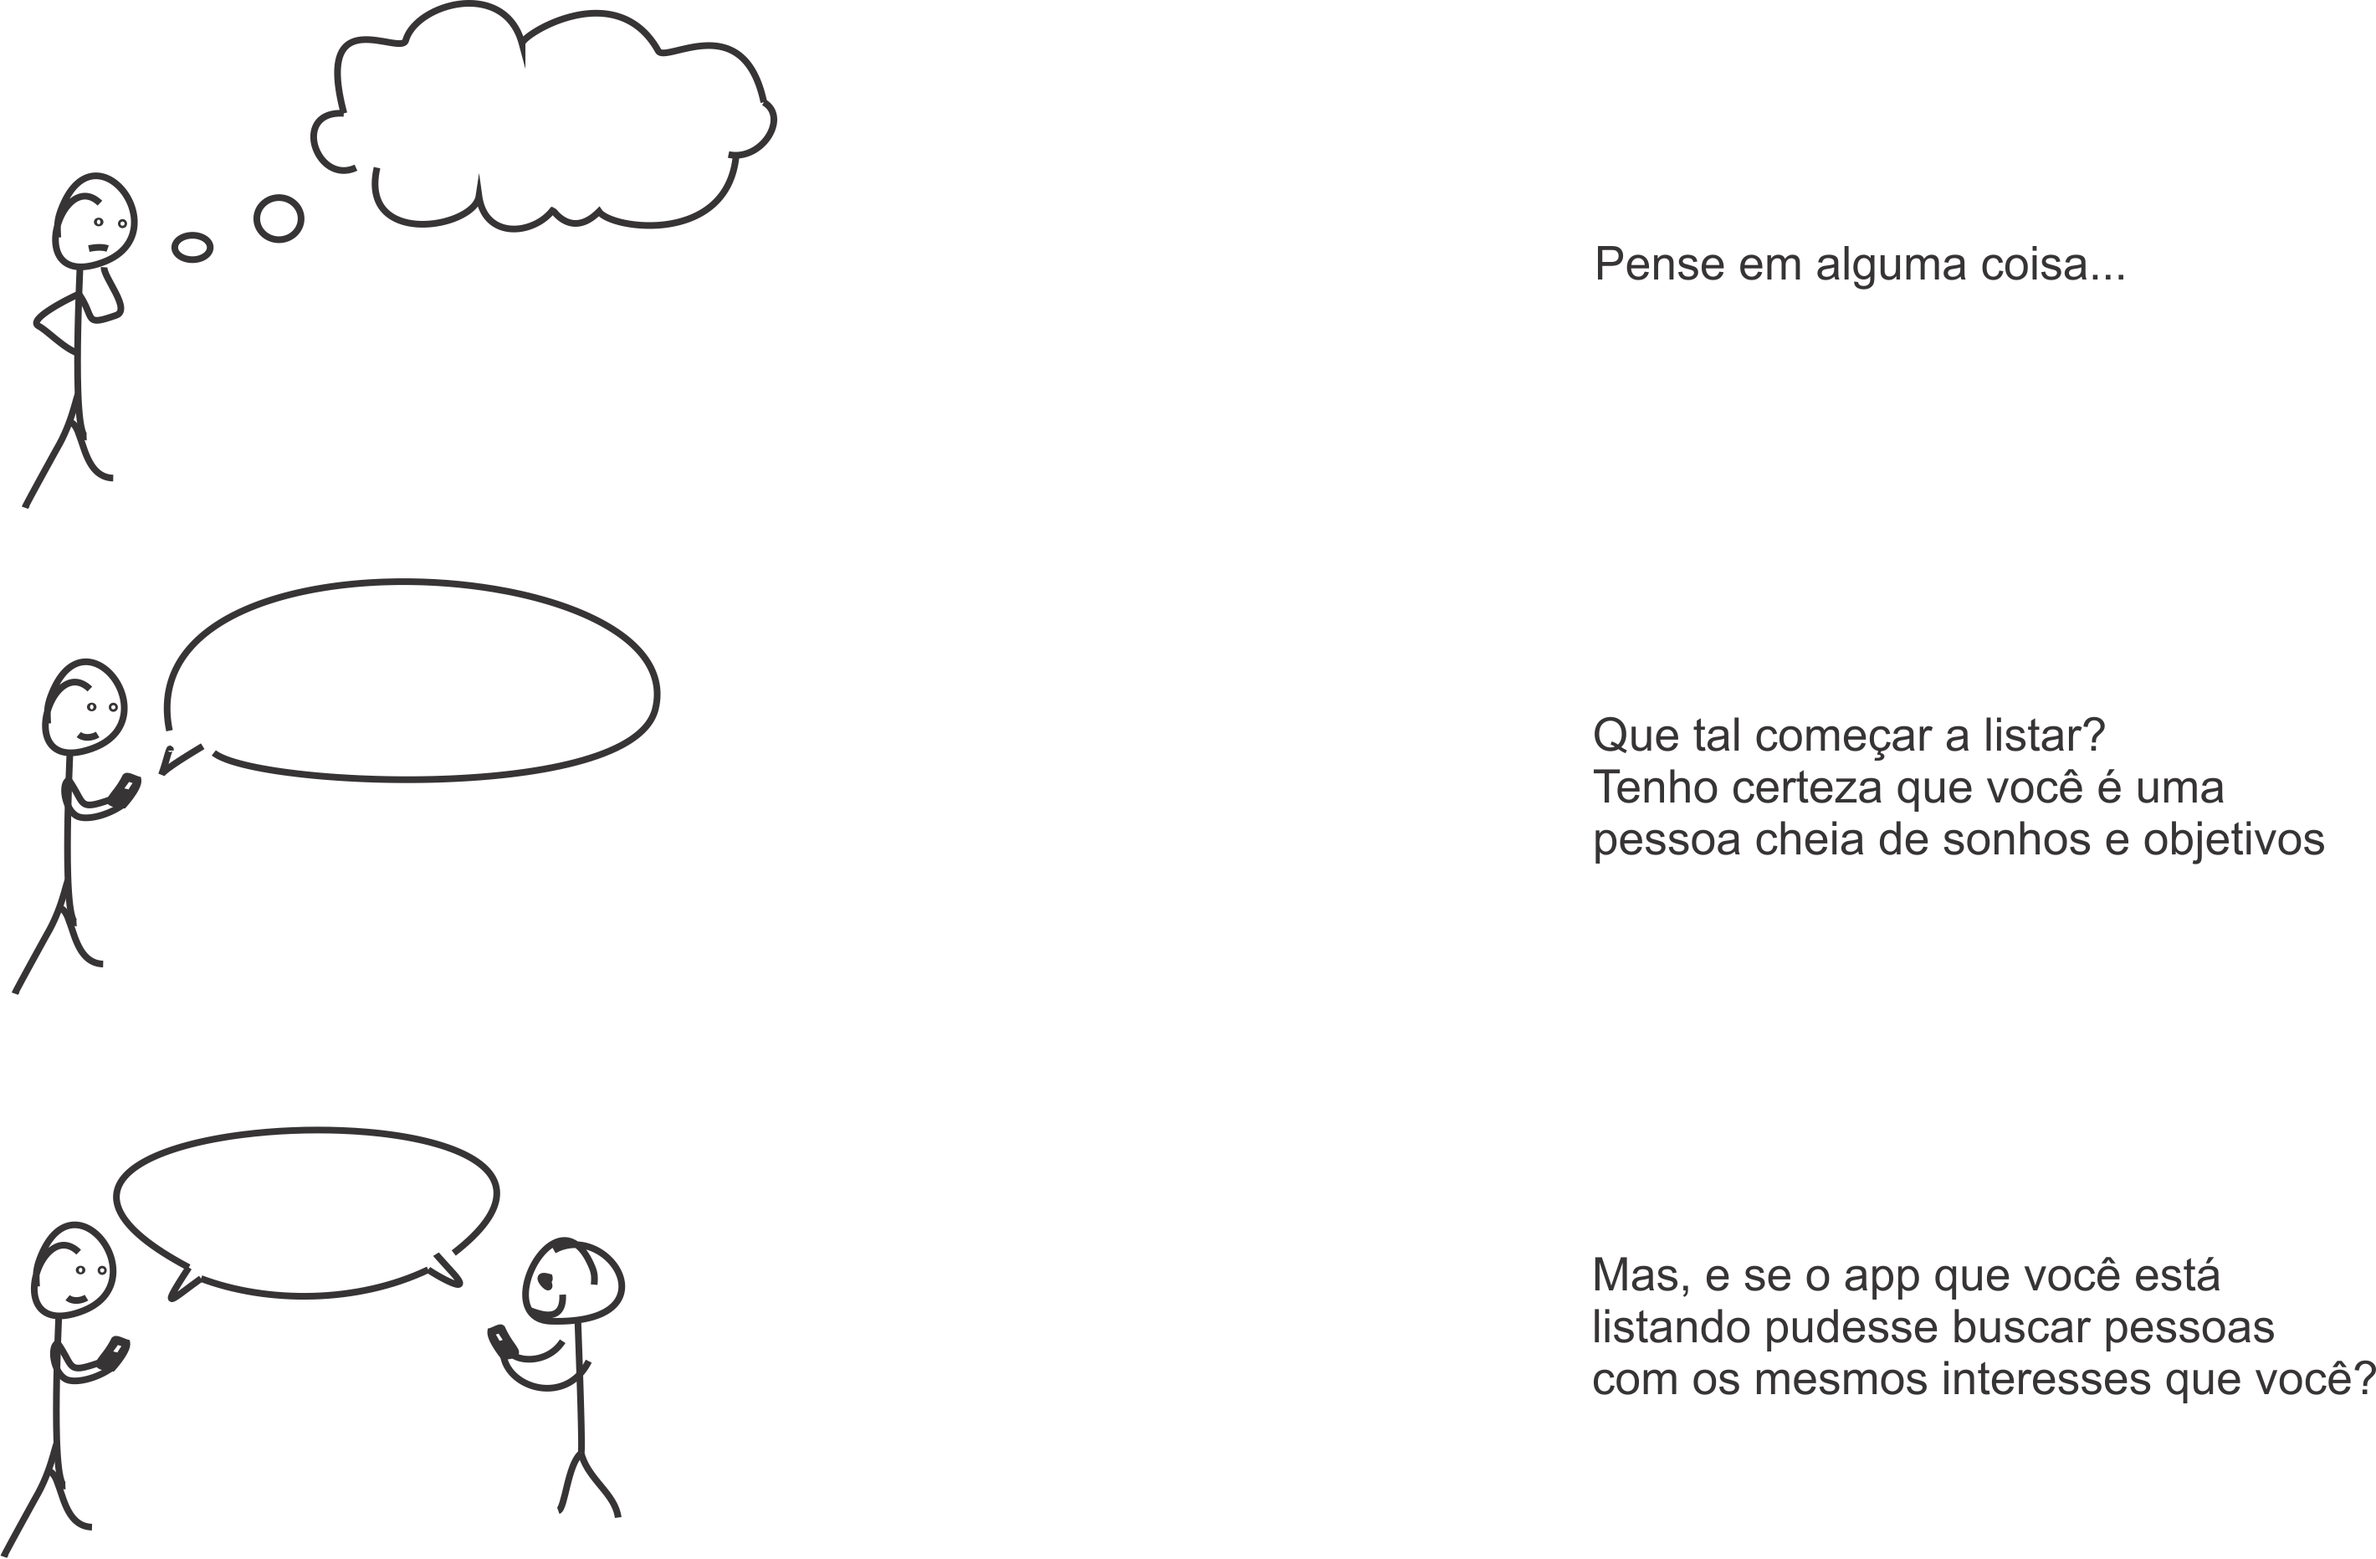
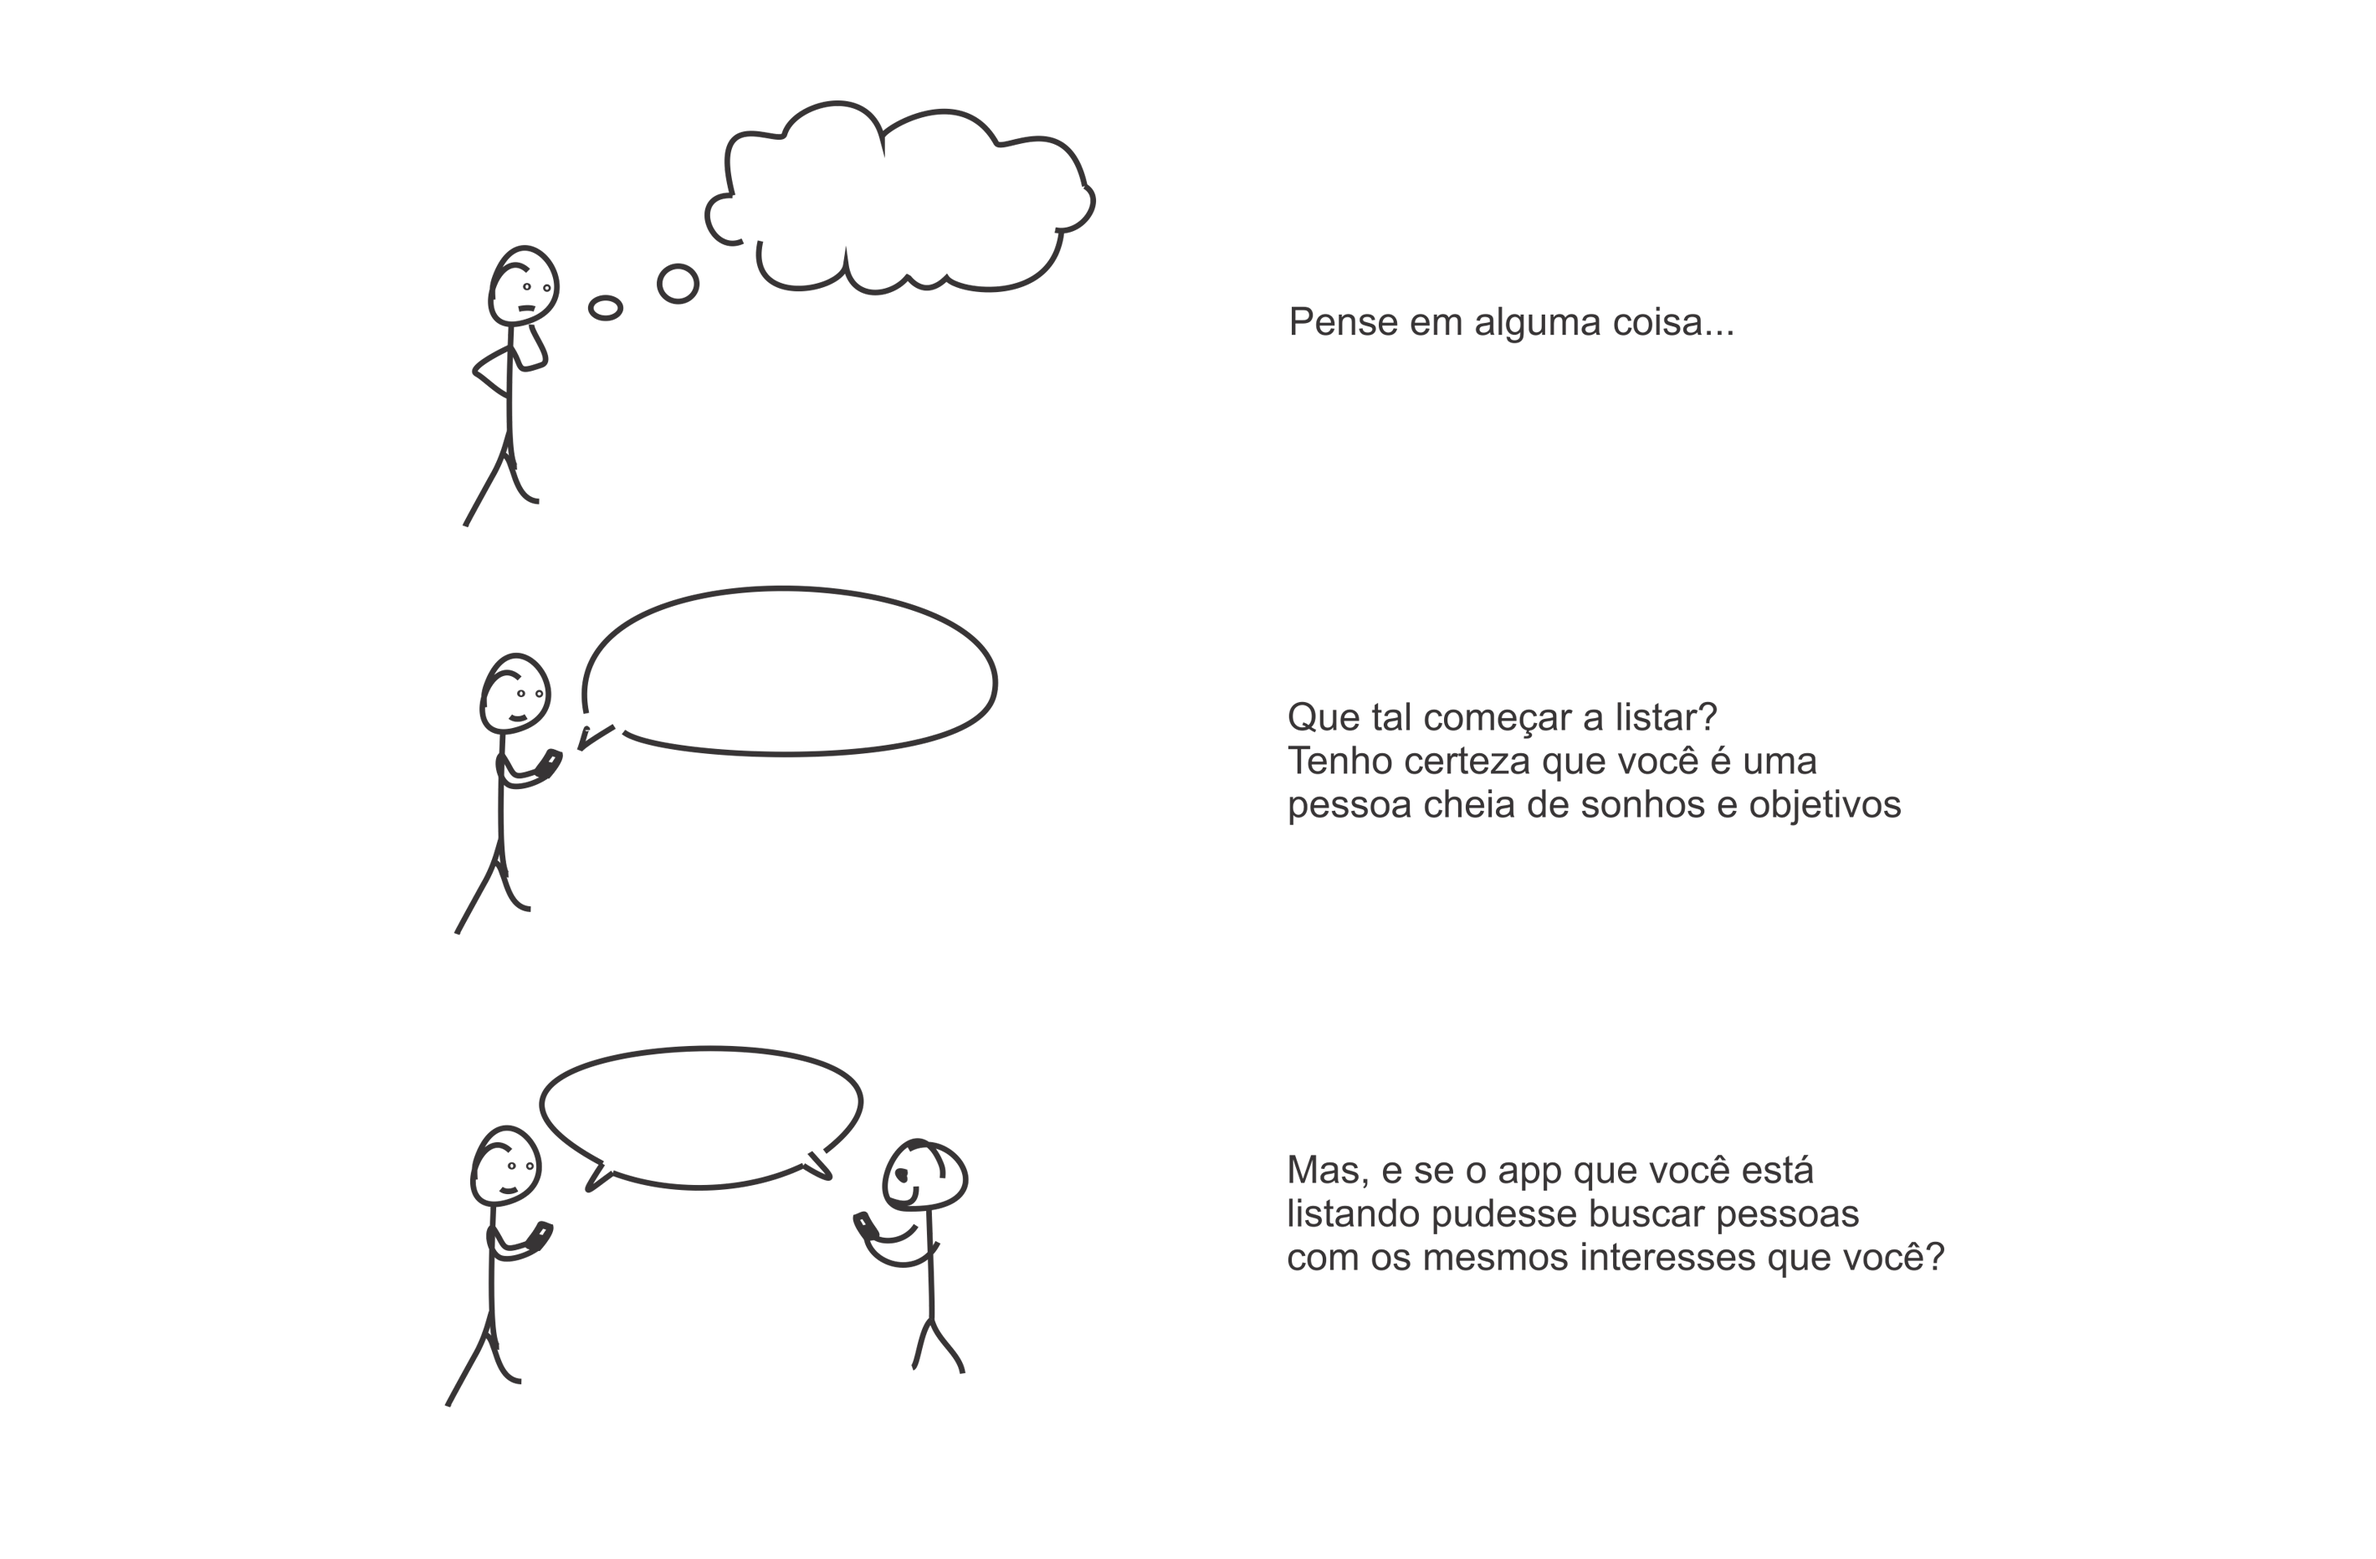
Alteração Wagner

diff --git a/land2/index.html b/land2/index.html
@@ -47,6 +47,10 @@ body {
 background: url(./index_files/bg.jpg); background-attachment:fixed; background-size:cover;
 }
 
+p{
+margin:3%;
+}
+
 .quadrinhos{
   margin-left:5px;
   margin-top:5px;
@@ -55,15 +59,10 @@ background: url(./index_files/bg.jpg); background-attachment:fixed; background-s
 }
 
 .quadrinhos{
-font-size: 100%;
-line-height: 1.5;
-font-weight: 300;
-color: #222;
-font-family: serif;
-}
-
-.quadrinhos img{
-padding-right:15px;
+/*
+margin-left: 3%;
+margin-right: 3%;
+*/
 }
 
 h1{margin-bottom:0px;}
@@ -160,7 +159,7 @@ E quando acontecer? Você fez tudo que queria?</p>
 Um local onde seria possível ajudar e ser ajudado, facilitar a interação com empresas e profissionais que possam facilitar alcançar o que se quer.</p>
 <p style="font-family:pirulen;color:#8795a3">Todos temos sonhos. Quais são os seus?</p>
 	<img src="./index_files/pic01.jpg" alt="lista de palavras" width="100%">
-		<img src="./index_files/quadrinhos.png" alt="Qual é o seu objetivo?" width="100%">
+		<img class="quadrinhos" src="./index_files/quadrinhos.png" alt="Qual é o seu objetivo?" width="100%">
 <h3>Ideia - Solução</h3>
 <p align="justify">Desenvolver um software/aplicativo onde as pessoas pudessem idealizar e escrever suas listas de coisas que gostariam de fazer.</p>
 <p align="justify">Essas listas poderiam ser compartilhadas e também encontrar compatibilidade com outras com o intuito de montar uma comunidade que colabore e ajude uns aos outros a realizarem seus sonhos e cortarem itens de suas listas.</p>
